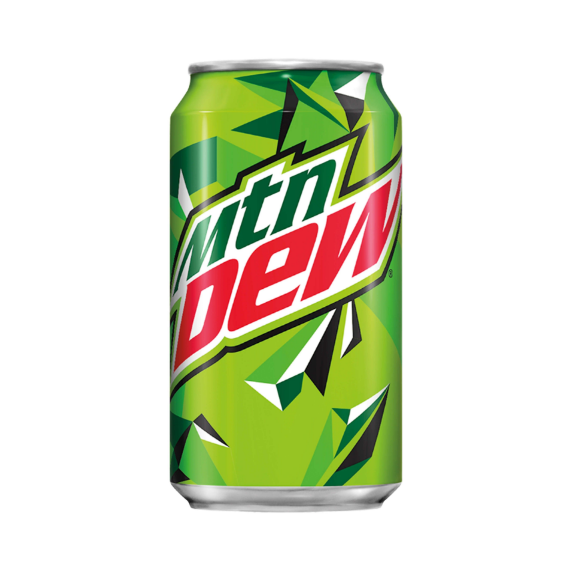
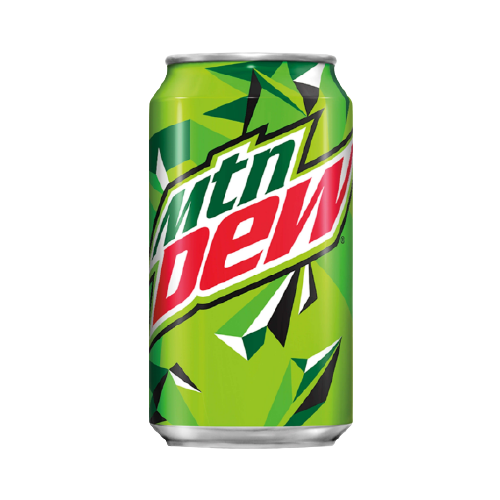
WIP Panier Achat

diff --git a/components/PanierList.tsx b/components/PanierList.tsx
@@ -1,0 +1,68 @@
+import React from 'react';
+import { StyleSheet, View, FlatList, Image, Text } from 'react-native';
+import DATA from '../Data/data.json';
+import Images from '../global'
+
+
+interface ItemPanierProps {
+    name: string,
+    description: string,
+    prix: number,
+    image: any,
+  }
+  
+function ItemPanier(props: ItemPanierProps) {
+  return(
+    <View style={styles.item}>
+      <View>
+        <Image style={styles.image} source={props.image}/>
+      </View>
+
+      <View style={styles.desc}>
+          <Text>TEST</Text>
+      </View>
+    </View>
+  );
+}
+
+export default function PanierList() {
+
+  return (
+    <View style={styles.container}>
+        <FlatList
+        showsHorizontalScrollIndicator={false}
+        data={DATA}
+        renderItem={({item}) => <ItemPanier name={item.name} image={Images.canette[item.name]} description={item.description} prix={item.prix}  />}
+        keyExtractor={item => item.id}/>
+    </View>
+  );
+}
+
+const styles = StyleSheet.create({
+  container: {
+    flex: 1,
+    backgroundColor: '#3f3f3f',
+    borderTopRightRadius: 25,
+    borderTopLeftRadius: 25,
+  },
+
+  item: {
+    flex: 1,
+    flexDirection: 'row',
+    backgroundColor: 'transparent',
+  },
+
+  image: {
+      marginLeft: 30,
+      marginTop: 20,
+      backgroundColor: '#656565',
+      height: 150,
+      width: 100,
+      borderRadius: 20
+  },
+
+  desc: {
+    marginLeft: 30,
+    marginTop: 20,
+  }
+});

diff --git a/components/Panier.tsx b/components/Panier.tsx
@@ -1,12 +1,18 @@
 import React from 'react';
-import { StyleSheet, View  } from 'react-native';
-import Footer from './Footer';
+import { StyleSheet, View, Text  } from 'react-native';
+import PanierList from './PanierList';
+import MaterialCommunityIcons from 'react-native-vector-icons/MaterialCommunityIcons';
 
 
 export default function Panier() {
 
   return (
     <View style={styles.container}>
+      <View style={styles.backPage}> 
+        <Text style={styles.icon}><MaterialCommunityIcons name="arrow-left" color={"black"} size={30} /> </Text>
+        <Text style={styles.titre}> "" TEST ""</Text>   
+      </View>
+      <PanierList/>
     </View>
   );
 }
@@ -14,6 +20,22 @@ export default function Panier() {
 const styles = StyleSheet.create({
   container: {
     flex: 1,
-    backgroundColor: '#747474',
+    backgroundColor: '#747474'
   },
+
+  backPage: {
+    flexDirection: 'row',
+    height: 100,
+    paddingTop: 60,
+  },
+
+  titre: {
+    flex: 1,
+    backgroundColor: 'transparent',
+    textAlign: 'center',
+  },
+
+  icon: {
+    paddingLeft: 20,
+  }
 });

diff --git a/global.js b/global.js
@@ -7,5 +7,15 @@ export default Images = {
         'Orangina': require("./assets/logos/orangina.jpeg"),
         'Pepsi': require("./assets/logos/pepsi.jpg"),
         'A&W': require("./assets/logos/aw.jpg"),
+    },
+
+    canette: {
+        'Fanta': require("./assets/canette/canette-fanta.png"),
+        'Sprite': require("./assets/canette/canette-sprite.png"),
+        'Coca-Cola': require("./assets/canette/canette-coca-cola.png"),
+        'Mtn-Dew': require("./assets/canette/canette-mtn-dew.png"),
+        'Orangina': require("./assets/canette/canette-orangina.png"),
+        'Pepsi': require("./assets/canette/canette-pepsi.png"),
+        'A&W': require("./assets/canette/canette-aw.png"),
     }
   }
